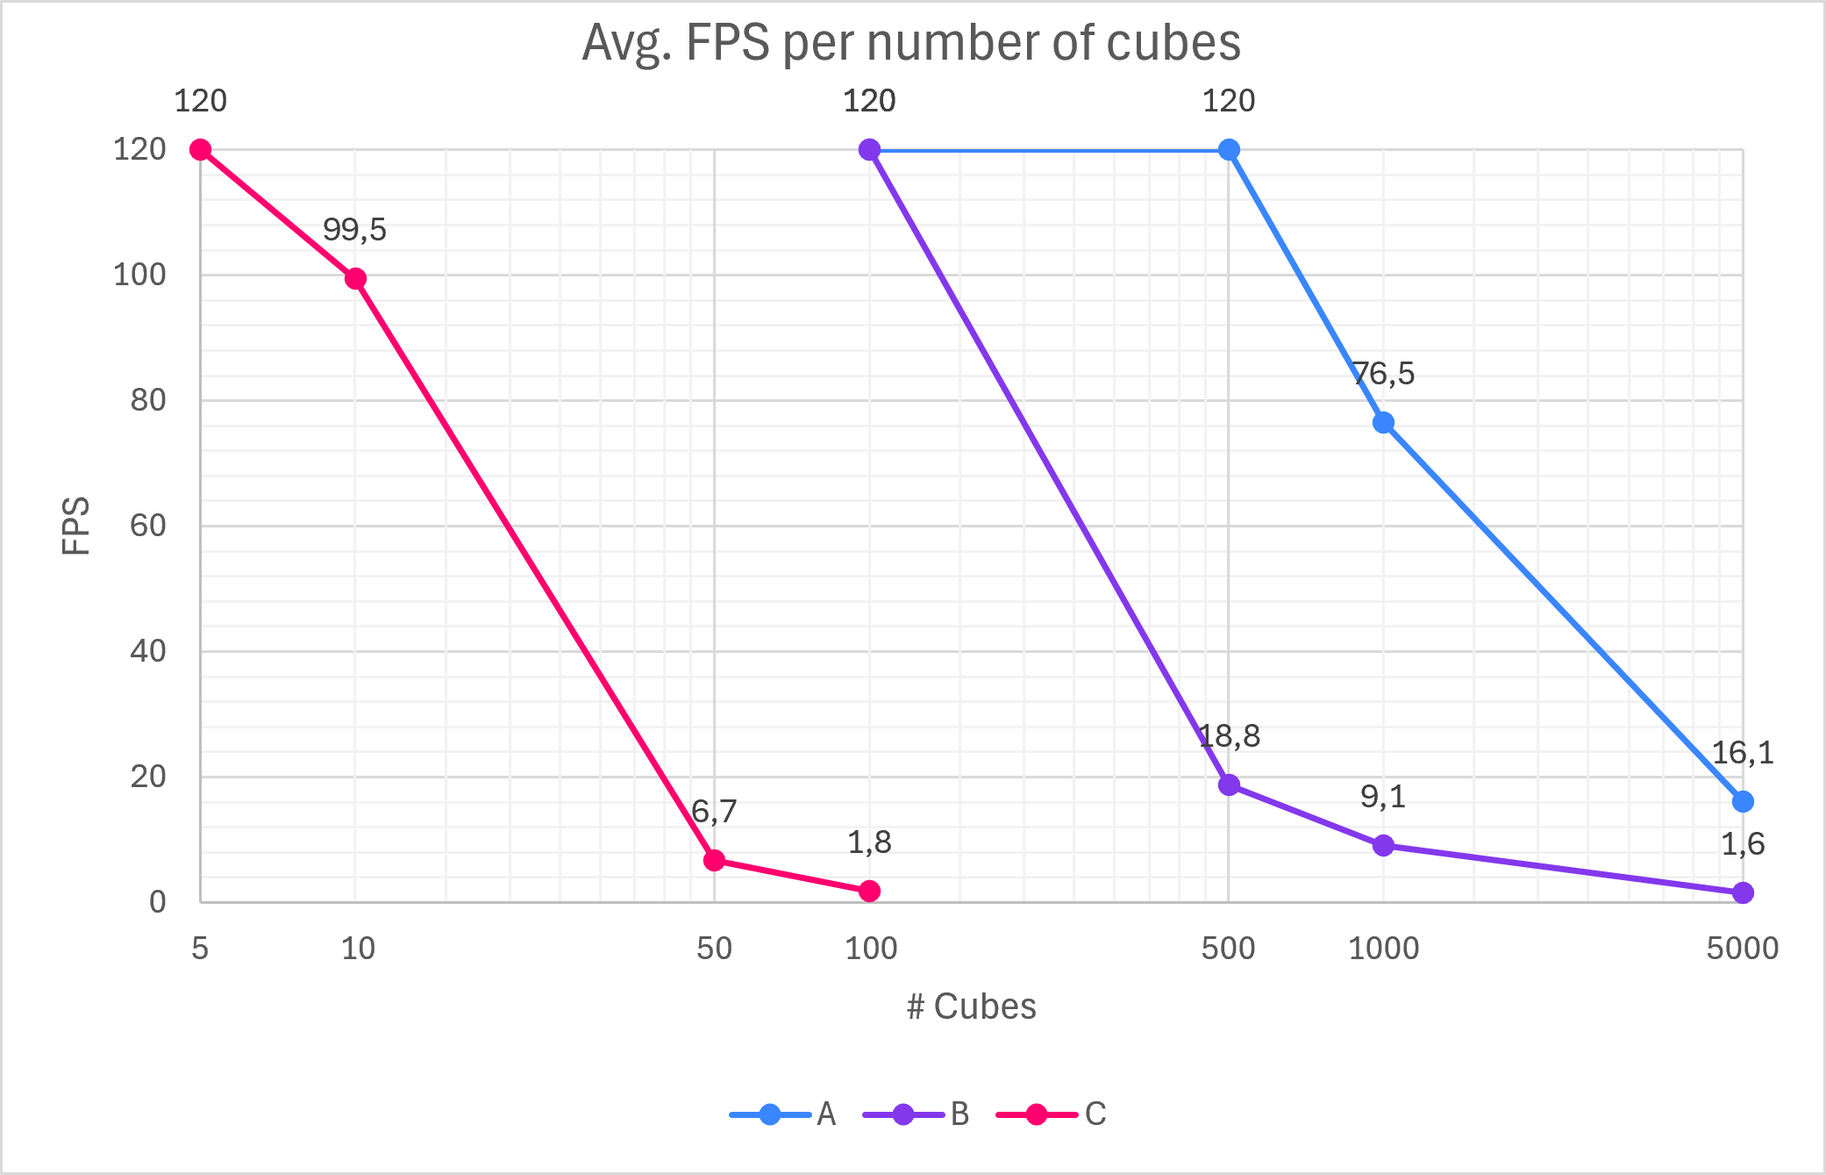
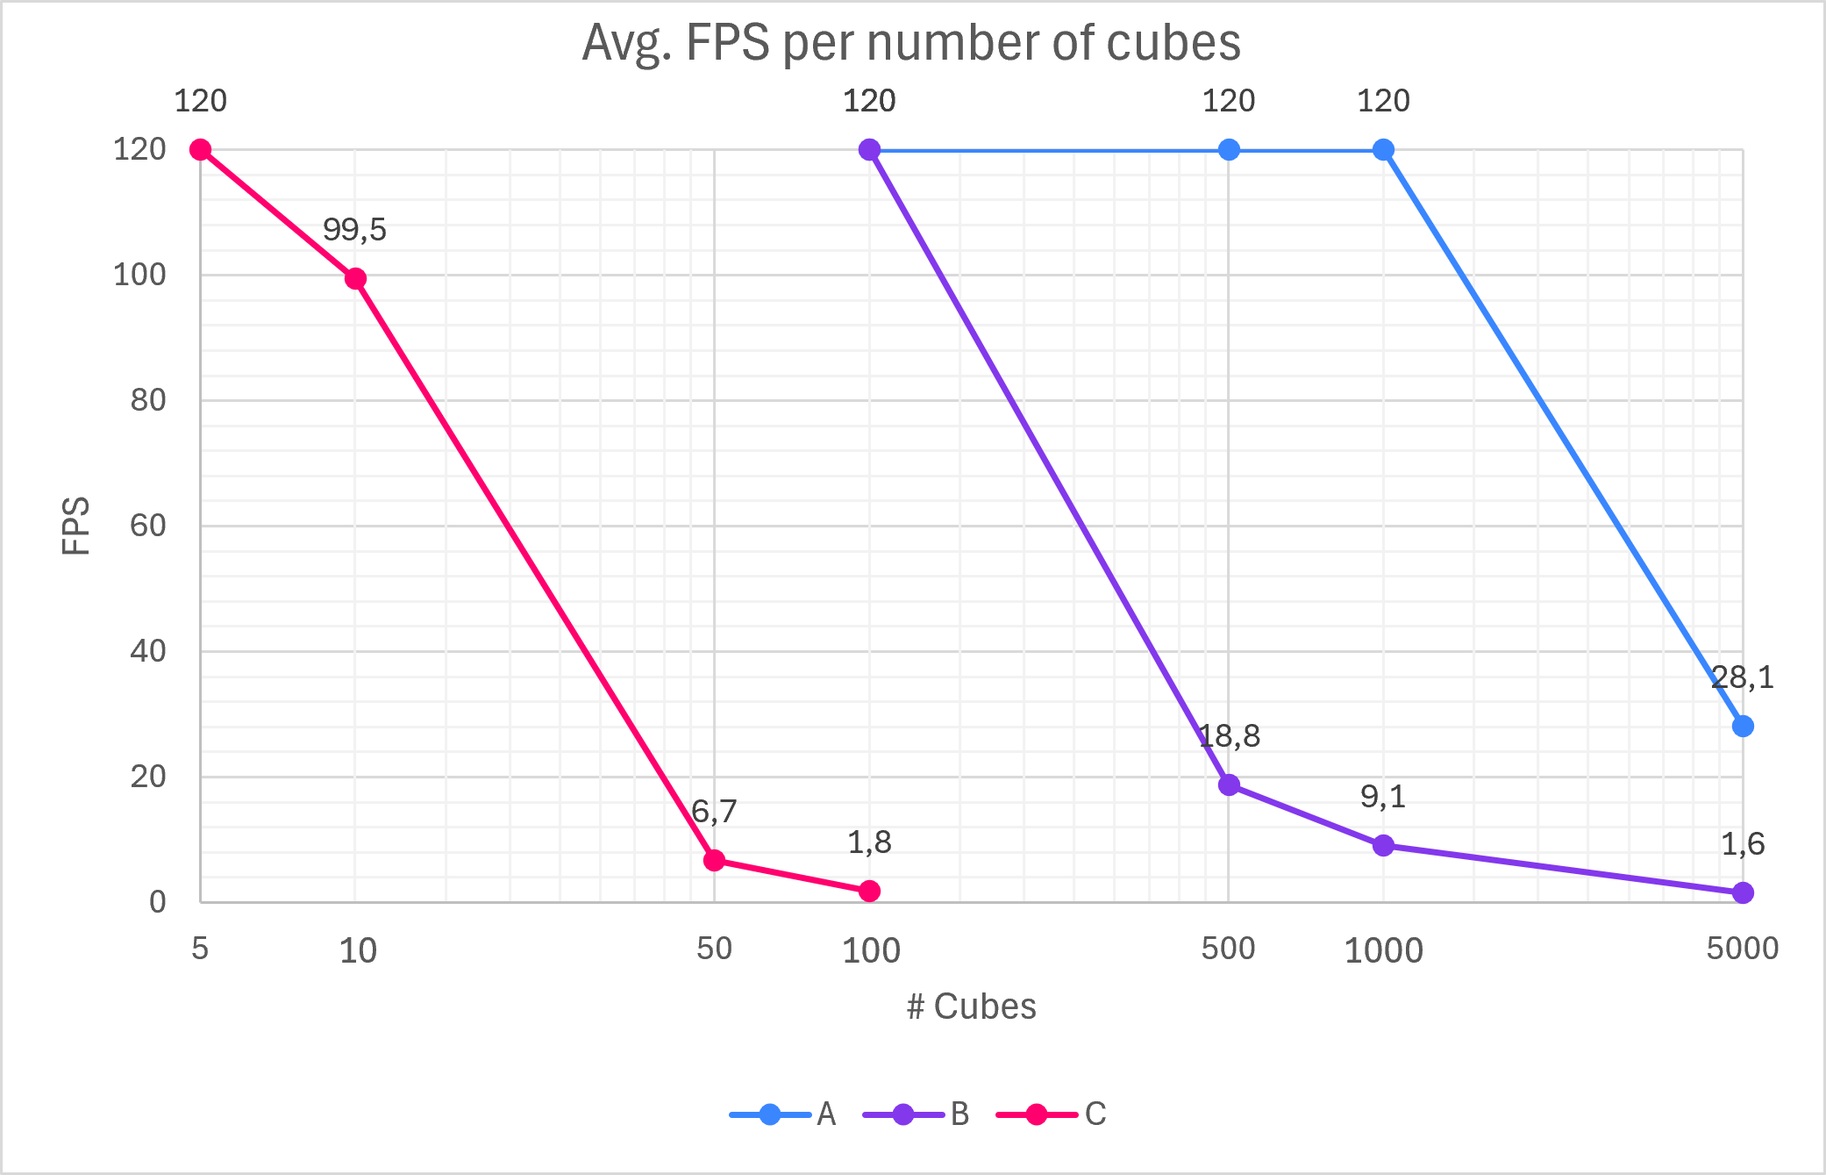
Update the Documentation for v0.9.0 and Add a Changelog and a Development Workflow
This update brings the README, the limitations, and the future work documents up to date with the changes since v0.8.1, and adds a changelog and a document describing the development and release process.

Summary:
- The README and the limitations document still described v0.8.0, listing limitations that are now solved (no frustum culling or instancing, low light count, no automated tests, Windows-only code).
- The future work document listed completed items, and did not include the planned releases.
- The project had no changelog, nor a documented process for changes and releases.

Changes:
- README
  - Added the rendering performance, reusable libraries, and cross-platform builds and CI features.
  - Updated the current status to v0.9.0 and its limitations, and linked the changelog and the development workflow.
  - Summarized the planned releases in the future roadmap.
- Limitations
  - Updated the version, removed the light count limitation, and replaced the automated tests and Windows dependency limitations with the current ones (no image comparison, no macOS support).
  - Updated the draw call bottleneck with the effect of frustum culling and instancing, measured with the geometric stress scene.
- Future Work
  - Added the items completed in v0.9.0 and the planned releases (v0.10.0 to v1.0.0, and the start of the X-ray simulator after v0.10.0).
  - Removed the completed items and the items assigned to the planned releases, and added automated rendering tests.
[…]

diff --git a/docs/future_work.md b/docs/future_work.md
@@ -1,77 +1,61 @@
 # Future Work
 
-Based on the experience gained and the limitations identified, the following improvements are proposed. They are ordered by estimated effort and priority.
+Based on the experience gained and the limitations identified, the following improvements are proposed. The planned releases come first, followed by the improvements not yet assigned to a release, ordered by estimated effort and priority.
+
+## Completed in v0.9.0
+
+- **Instanced rendering and frustum culling** (draw call bottleneck, Scenario A).
+- **Shader storage buffer for lights** (any number of lights).
+- **Cross-platform portability and CI/CD**: Windows (MSVC, MinGW) and Linux (GCC, Clang) builds with GitHub Actions, GoogleTest unit tests, and smoke tests rendered headlessly with Mesa's software renderer.
+
+## Planned Releases
+
+| Version | Content |
+| ------- | ------- |
+| **v0.10.0** | Deferred shading (G-buffer and lighting pass) and shadow mapping (directional lights first). |
+| **v0.11.0** | Normal mapping, Physically Based Rendering (PBR), Screen Space Ambient Occlusion (SSAO), and post-processing (tone mapping, gamma correction). |
+| **v0.12.0** | Order-independent transparency, compute shaders, and particles. |
+| **v0.13.0** | Editor improvements: data-driven materials, multi-selection, viewport gizmos, and multi-camera support. |
+| **v1.0.0** | Stable interfaces, once the Engine has been used by the X-ray simulator. |
+
+The X-ray simulator (`xray-sim`), which consumes the Engine as a Git submodule together with gVirtualXray, starts after v0.10.0, in parallel with the following releases.
 
 ## Short-Term (1 - 3 Months)
 
-1. **Instanced Rendering + Frustum Culling**  
-   - Group objects with identical meshes and materials to reduce draw calls drastically.  
-   - Implement frustum culling to skip rendering objects outside the camera's view.  
-   - *Addresses:* Draw call bottleneck (Scenario A).
-
-2. **Order-Independent Transparency (OIT)**  
-   - Replace `O(n log n)` sorting with per-pixel linked lists (or depth peeling) for correct and efficient transparent blending.  
-   - *Addresses:* Blending overhead (Scenario B).
-
-3. **Optimise Cubemap Updates**  
+1. **Optimise Cubemap Updates**  
    - Reduce capture resolution (e.g., 128×128 or 256×256).  
    - Update environment maps only when the object moves, or at a lower frequency (e.g., every N frames).  
    - *Addresses:* Dynamic environment map cost (Scenario C).
 
-4. **Geometry Shaders for Cubemap Arrays**  
+2. **Geometry Shaders for Cubemap Arrays**  
    - Render all six faces of a cubemap in a single pass using `gl_Layer` in the geometry shader.  
    - *Addresses:* Cubemap capture overhead.
 
 ## Medium-Term (3 - 6 Months)
 
-1. **Data-Driven Material System**  
-   - Define materials, shaders, and textures via JSON/YAML files loaded at runtime.  
-   - Allow shader swapping and parameter changes without recompilation.
-
-2. **Full Assimp Integration**  
+1. **Full Assimp Integration**  
    - Import animations, bones, morph targets, and all material maps (normal, specular, roughness, etc.).  
    - Implement skinning in the vertex shader.
 
-3. **Viewport Manipulation Gizmos**  
-   - Translate, rotate, and scale widgets in the 3D viewport using raycasting.
-
-4. **Multi-Selection**  
-   - Support selecting multiple non-sibling nodes via `Ctrl`/`Shift` modifiers, allowing batch transformations.
-
-5. **Multi-Camera Support**  
-   - Manage multiple cameras, switch between them, or display several viewports simultaneously.
+2. **Automated Rendering Tests**  
+   - Compare the rendered images of the test scenes with reference images in the CI (with a tolerance), to detect rendering regressions automatically.
 
 ## Long-Term (6 - 12 Months)
 
-1. **Shader Storage Buffer Objects (SSBOs) for Lights**  
-    - Enable thousands of dynamic lights in the scene without per-object uniform limits.
-
-2. **Post-Processing Pipeline**  
+1. **Additional Post-Processing**  
     - Anti-aliasing (MSAA/FXAA).  
-    - High Dynamic Range (HDR) with tone mapping.  
-    - Bloom (Gaussian blur + additive composition).  
-    - Gamma correction.  
-    - Deferred shading (G-buffer + lighting pass).
+    - Bloom (Gaussian blur + additive composition).
+
+2. **Additional Lighting Effects**  
+    - Shadow mapping for point and spot lights (directional lights come first, in v0.10.0).  
+    - Parallax mapping.
 
 3. **Advanced Window Customisation**  
     - Hide the console (`/SUBSYSTEM:WINDOWS`, `FreeConsole()`).  
     - Custom icon (via `.rc` resources).  
     - Fullscreen mode and embedded (child) window modes.
 
-4. **Cross-Platform Portability + CI/CD**  
-    - Test on Linux and macOS.  
-    - Set up GitHub Actions workflows for automated builds.  
-    - Integrate Google Test for unit testing.  
-    - Use OSMesa or EGL for headless rendering tests.
-
-5. **Advanced Lighting & Effects**  
-    - Shadow mapping (spot, point, directional).  
-    - Normal mapping and parallax mapping.  
-    - Screen Space Ambient Occlusion (SSAO).  
-    - Physically Based Rendering (PBR - Cook-Torrance).
-
-6. **Procedural Generation and Particles**  
-    - Compute shaders for particle simulation and mesh generation (terrain, noise).  
-    - Geometry shaders for billboard rendering.
+4. **Procedural Generation**  
+    - Compute shaders for mesh generation (terrain, noise).
 
 These enhancements would transform the academic prototype into a robust, production-ready engine suitable for games, simulations, and scientific visualisation.

diff --git a/docs/limitations.md b/docs/limitations.md
@@ -1,7 +1,7 @@
 
 # Limitations and Known Issues
 
-As of version **v0.8.0** (the latest beta release), the engine is functional but has several known constraints. These are grouped into architectural and performance limitations.
+As of version **v0.9.0**, the engine is functional but has several known constraints. These are grouped into architectural and performance limitations.
 
 ## Architectural Limitations
 
@@ -10,21 +10,20 @@ As of version **v0.8.0** (the latest beta release), the engine is functional but
 | **Static Shader/Material Assignment** | Shaders are assigned by node type via hard-coded logic in `Renderer.cpp`. No data-driven system exists to change materials at runtime without recompiling. | Flexibility, extensibility. |
 | **Limited Assimp Import** | Assimp is used only for static geometry extraction. Animations, bones, morph targets, and complex material maps (normals, specular, etc.) are not imported. Some embedded textures fail to load. | Model import quality. |
 | **No Shadows** | Lights are evaluated without shadow mapping. Shadow maps, point shadows, and cascaded maps are not implemented. | Visual realism. |
-| **Low Light Count** | The number of lights per scene is limited to a small static array (no SSBOs). | Scalability. |
 | **Rotation Instability** | *Y-axis rotation ghosting* and *rotation axis coupling* appear due to quaternion-Euler conversions, causing abrupt jumps when rotating in certain orientations. | Usability. |
 | **Residual Flicker** | In dense reflective/refractive scenes, minor flicker can persist on environment maps, despite ping-pong buffering mitigation. | Visual quality. |
-| **No Automated Tests** | No unit or integration tests. Validation is done manually via visual inspection and ad-hoc benchmarks. | QA, regression prevention. |
-| **Windows Dependency** | The code uses Windows-specific libraries (`windows.h`) for certain optimisations. Linux and macOS are untested. | Portability. |
+| **Limited Automated Tests** | Unit tests cover the utilities and geometry classes, and a smoke test checks that the App renders without errors, but the rendered images are not compared automatically (rendering changes are still validated manually). | QA, regression prevention. |
+| **No macOS Support** | Windows and Linux are supported and built by the CI. macOS only provides OpenGL up to 4.1, below the required 4.5. | Portability. |
 
 ## Performance Limitations
 
 | Limitation | Scenario | Impact |
 | ---------- | -------- | ------ |
-| **Draw Call Bottleneck** | Opaque objects (Scenario A). Each object issues individual uniforms (`glUniformMatrix4fv`). No instancing or frustum culling. | Drops sharply >1000 objects (~76 FPS at 1000, ~16 FPS at 5000). |
+| **Draw Call Bottleneck** | Opaque objects (Scenario A). Since v0.9.0, the objects outside the view are culled and repeated untextured shapes are drawn with instancing, while the remaining objects (textured, two-sided, or imported models) still issue individual draw calls. | ~120 FPS at 1000 and ~28 FPS at 5000 with culling and instancing (~76 and ~16 FPS before v0.9.0). |
 | **Blending Overhead** | Transparent objects (Scenario B). Back-to-front sorting adds `O(n log n)` CPU cost, while blending increases fragment operations (overdraw). | >500 transparent objects becomes impractical (~19 FPS at 500, ~9 FPS at 1000). |
 | **Dynamic Environment Maps** | Reflective/refractive objects (Scenario C). Each object renders the entire scene six times per frame for its cubemap. | >10 reflective objects tanks performance (~99 FPS at 10, ~7 FPS at 50). |
 
-The following charts allow for a visualization of these disparities based on the retrieved data:
+The following charts allow for a visualization of these disparities based on the data retrieved for v0.8.0 (before frustum culling and instancing):
 
 <p></p>
 <div style="display:flex; justify-content:center; align-items:center; flex-wrap:wrap; gap:20px;"> <img src="diagrams/performance/avg_fps_per_n_cubes.png" alt="avg_fps_per_n_cubes" title="Avg. FPS per number of cubes" style="height:400px; width:auto;" /> </div>
@@ -38,7 +37,7 @@ The following objectives from the thesis plan were not implemented due to time a
 
 - Multiple selection of non-sibling nodes.
 - Direct manipulation gizmos (translate/rotate/scale widgets in the viewport).
-- Post-processing (anti-aliasing, gamma correction, HDR, bloom, deferred shading).
+- Post-processing (anti-aliasing, gamma correction, HDR, bloom) and deferred shading.
 - Multi-camera support.
 - Procedural generation and particle systems (geometry/compute shaders).
 - Advanced window adaptation (fullscreen mode, embedded mode, custom icon, console hiding).

diff --git a/CHANGELOG.md b/CHANGELOG.md
@@ -1,0 +1,56 @@
+# Changelog
+
+All notable changes to this project are documented in this file.
+
+The format is based on [Keep a Changelog](https://keepachangelog.com/en/1.1.0/), and this project adheres to [Semantic Versioning](https://semver.org/spec/v2.0.0.html) (before v1.0.0, minor versions may include breaking changes). The detailed notes of each version are published in its [GitHub release](https://github.com/emartg/opengl-graphics-engine/releases).
+
+## [Unreleased]
+
+### Added
+
+- Cross-platform CMake presets: Ninja/MSVC, Visual Studio 2022 and 2026, MinGW Makefiles with GCC, and Ninja with GCC or Clang on Linux.
+- `vcpkg.json` manifest with a pinned baseline: vcpkg installs GLFW, GLM, and Assimp for every Windows preset.
+- `Engine::Core` and `Engine::Platform` libraries, consumable by other CMake projects with `add_subdirectory()`, with a `Gui_Layer` interface for application GUIs.
+- Runtime lookup of the resources directory, so the App runs from any working directory.
+- GitHub Actions CI: formatting check, Linux (GCC and Clang), Windows (MSVC and MinGW), unit tests, App smoke test, and consumer test.
+- GoogleTest unit tests for `String_Utils`, `File_System_Utils`, `Random`, `Bounding_Box`, and `Frustum`.
+- `--frames N` command-line option to render a fixed number of frames and exit.
+- Frustum culling, with the `Bounding_Box` and `Frustum` classes.
+- Geometries shared between meshes with identical data (`Mesh_Geometry`).
+- Instanced rendering of opaque shapes sharing a geometry.
+- Shader storage buffer with all the lights of the scene.
+- Debug window statistics (drawn, culled, and instanced objects, mesh geometries, and lights) and toggles for frustum culling and instancing.
+- `.clang-format` and `.editorconfig` files, applied to the whole code base.
+- Changelog and development workflow documentation.
+
+### Changed
+
+- OpenGL 4.5 core profile (previously 4.2).
+- The GLFW window, input, and ImGui integration moved from the App to the Platform library, and the built-in shaders and resource lookup from the App to the Core.
+- `CMakePresets.json` replaces `CMakeSettings.json` for Visual Studio.
+- The `Random` class uses a seedable `std::mt19937` generator with correct distributions.
+- The main loop renders a few frames at startup and after each event before waiting for the next one.
+
+### Removed
+
+- The MSVC binaries and headers of GLFW, GLM, and Assimp bundled in `external/`, the `ENGINE_USE_BUNDLED_DEPS` option, and the custom `Find*.cmake` modules.
+- `imgui.ini` from version control.
+- The limit of three lights per type.
+
+### Fixed
+
+- Point light input mismatch in the Assimp model shader.
+- Geometry shader source not passed to OpenGL.
+- OpenGL objects released after the window was destroyed at shutdown.
+- GPU buffers of meshes never released.
+- Corrupted lighting with more than three lights of a type.
+- Incomplete window and GUI at startup until the first user input.
+- Random positions ignoring the minimum distance and spreading only on one side of the target.
+- Clang build errors and warnings, and missing standard includes.
+
+## [0.8.1] - 2026-06-29
+
+See the [v0.8.1 release](https://github.com/emartg/opengl-graphics-engine/releases/tag/v0.8.1). Earlier versions are documented in their [GitHub releases](https://github.com/emartg/opengl-graphics-engine/releases).
+
+[Unreleased]: https://github.com/emartg/opengl-graphics-engine/compare/v0.8.1...HEAD
+[0.8.1]: https://github.com/emartg/opengl-graphics-engine/releases/tag/v0.8.1

diff --git a/docs/development_workflow.md b/docs/development_workflow.md
@@ -1,0 +1,48 @@
+# Development Workflow
+
+This document describes how changes are made, reviewed, and released in this repository.
+
+## Branches and Pull Requests
+
+`main` always contains working code: changes are not pushed to it directly, but merged through pull requests, after the CI workflow passes on them.
+
+1. Create a branch from an up-to-date `main`, with a short descriptive name (e.g., `feature/deferred-shading`, `fix/mesh-buffers`, `docs/v0.9.0-status`):
+
+   ```powershell
+   git switch main
+   git pull
+   git switch -c feature/deferred-shading
+   ```
+
+2. Commit the changes on the branch (one or more commits, following the commit message conventions below), and push it:
+
+   ```powershell
+   git push -u origin feature/deferred-shading
+   ```
+
+3. Open a pull request on GitHub (the push output prints the link). The CI workflow runs on it; if it fails, push the fixes to the same branch.
+4. Once the CI passes, merge the pull request with **Rebase and merge**, which replays its commits on top of `main` (keeping a linear history and the original commit messages, although the commits get new hashes), and delete the branch.
+5. Update the local copy: `git switch main`, `git pull`, and `git branch -d <branch>`.
+
+## Commit Messages
+
+- The subject is a short imperative sentence in Title Case (e.g., `Cull the Nodes Outside the Camera's View Frustum`).
+- The body starts with an introductory paragraph, followed by the `Summary:`, `Changes:` (grouped by area), `Notes:` (optional), `Validation:`, and `Conclusion:` sections.
+- Each commit is a self-contained change that builds and passes the tests.
+
+## Changelog
+
+Every pull request with a notable change adds a line to the `[Unreleased]` section of the [Changelog](../CHANGELOG.md), under `Added`, `Changed`, `Deprecated`, `Removed`, `Fixed`, or `Security`.
+
+## Versions
+
+The project follows [Semantic Versioning](https://semver.org/spec/v2.0.0.html): before v1.0.0, minor versions (`0.x.0`) add features and may include breaking changes, and patch versions (`0.x.y`) only include fixes. Versions before v1.0.0 are published as pre-releases.
+
+## Releases
+
+1. In a release pull request (e.g., `release/v0.9.0`):
+   - Rename the `[Unreleased]` section of the changelog to the version and date (e.g., `## [0.9.0] - 2026-10-08`), add a new empty `[Unreleased]` section above it, and update the comparison links at the end of the file.
+   - Make sure that the `project()` version in the top-level `CMakeLists.txt` matches the new version.
+   - Update the status of the README and the [Limitations](limitations.md) and [Future Work](future_work.md) documents if needed.
+2. Merge the pull request once the CI passes.
+3. On GitHub, draft a new release: create the tag (`v0.9.0`) on `main` when publishing, use the title `Release v0.9.0 - <Highlights>`, write the release notes (Overview, sections per area, Upgrade Notes when needed, Summary, and the full changelog link), and mark it as a pre-release before v1.0.0.

diff --git a/README.md b/README.md
@@ -26,6 +26,9 @@ A **modular, extensible 3D graphics engine** built from scratch with OpenGL 4.5.
   - *Debug* - visualisation modes (Normal, Inverted Colors, Picking Colors, Grid Overlay) and performance stats.
   - *Creation* - instantiate primitives (cube, sphere, cylinder, cone, plane) or import models/skyboxes.
 - **Efficient Event-Driven Loop** - Blocks on idle using `glfwWaitEvents()`, reducing CPU usage to near zero when inactive.
+- **Rendering Performance** - Frustum culling, geometries shared between identical meshes, instanced rendering of repeated shapes, and a shader storage buffer for any number of lights.
+- **Reusable Libraries** - `Engine::Core` and `Engine::Platform` can be consumed by other CMake projects (e.g., as a Git submodule).
+- **Cross-Platform Builds & CI** - Windows (MSVC, MinGW) and Linux (GCC, Clang) builds, checked by GitHub Actions on every pull request and push to `main` (unit tests on both platforms, smoke tests on Linux).
 
 ---
 
@@ -157,21 +160,21 @@ See other captures in the subfolder [Images](docs/images/).
 
 ## Current Status
 
-This engine is a **beta prototype** (v0.8.0) - functional and usable, but not production-ready. Known limitations include:
+This engine is a **beta prototype** (v0.9.0) - functional and usable, but not production-ready. Known limitations include:
 
-- No instanced rendering or frustum culling (performance drops with >1000 opaque objects).
+- No shadows, normal mapping, or physically based materials yet.
 - Transparent objects become expensive (>500 objects).
 - Dynamic environment maps are computationally heavy (>10 reflective objects).
 - Shader/material assignment is hard-coded (no data-driven material system).
 - Limited animation and material import from Assimp.
 
-See the full [Limitations and Known Issues](docs/limitations.md) document for a comprehensive list.
+See the full [Limitations and Known Issues](docs/limitations.md) document for a comprehensive list, and the [Changelog](CHANGELOG.md) for the changes of each version.
 
 ---
 
 ## Future Roadmap
 
-Short-term optimisations (instancing, frustum culling, order-independent transparency) and longer-term features (data-driven materials, full Assimp support, multi-camera, post-processing, PBR) are outlined in the [Future Work](docs/future_work.md) document.
+The planned releases (deferred shading and shadows, normal mapping and PBR, order-independent transparency and particles, editor improvements) and longer-term features are outlined in the [Future Work](docs/future_work.md) document. The development and release process is described in the [Development Workflow](docs/development_workflow.md) document.
 
 ---
 
